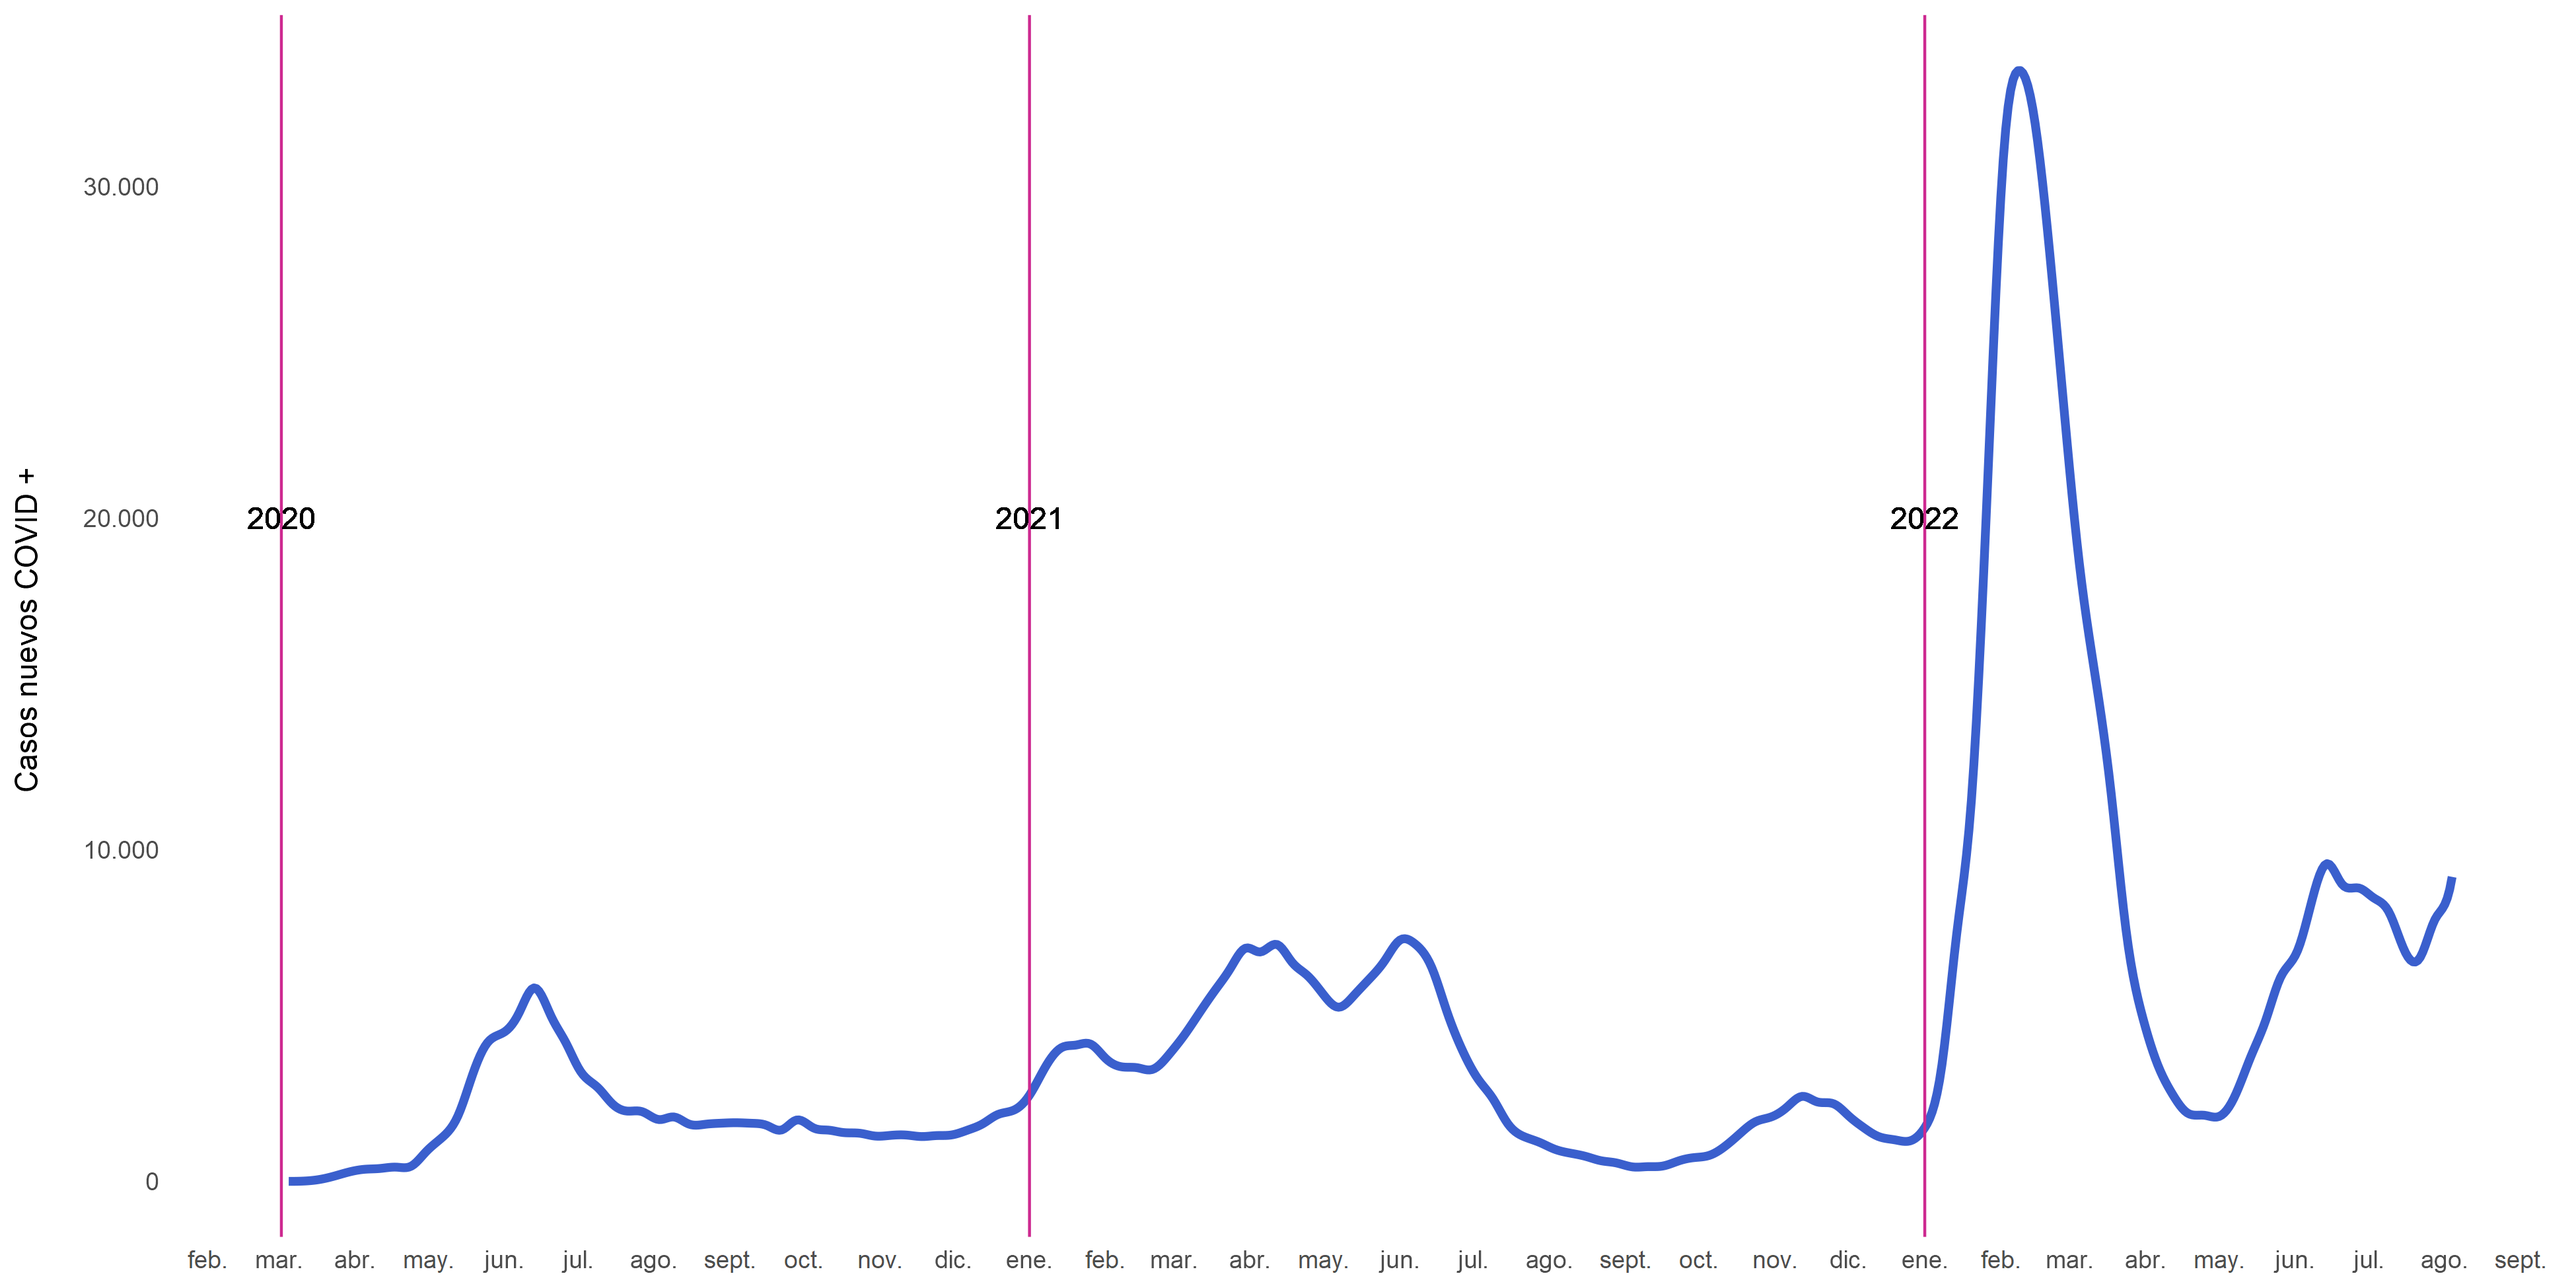
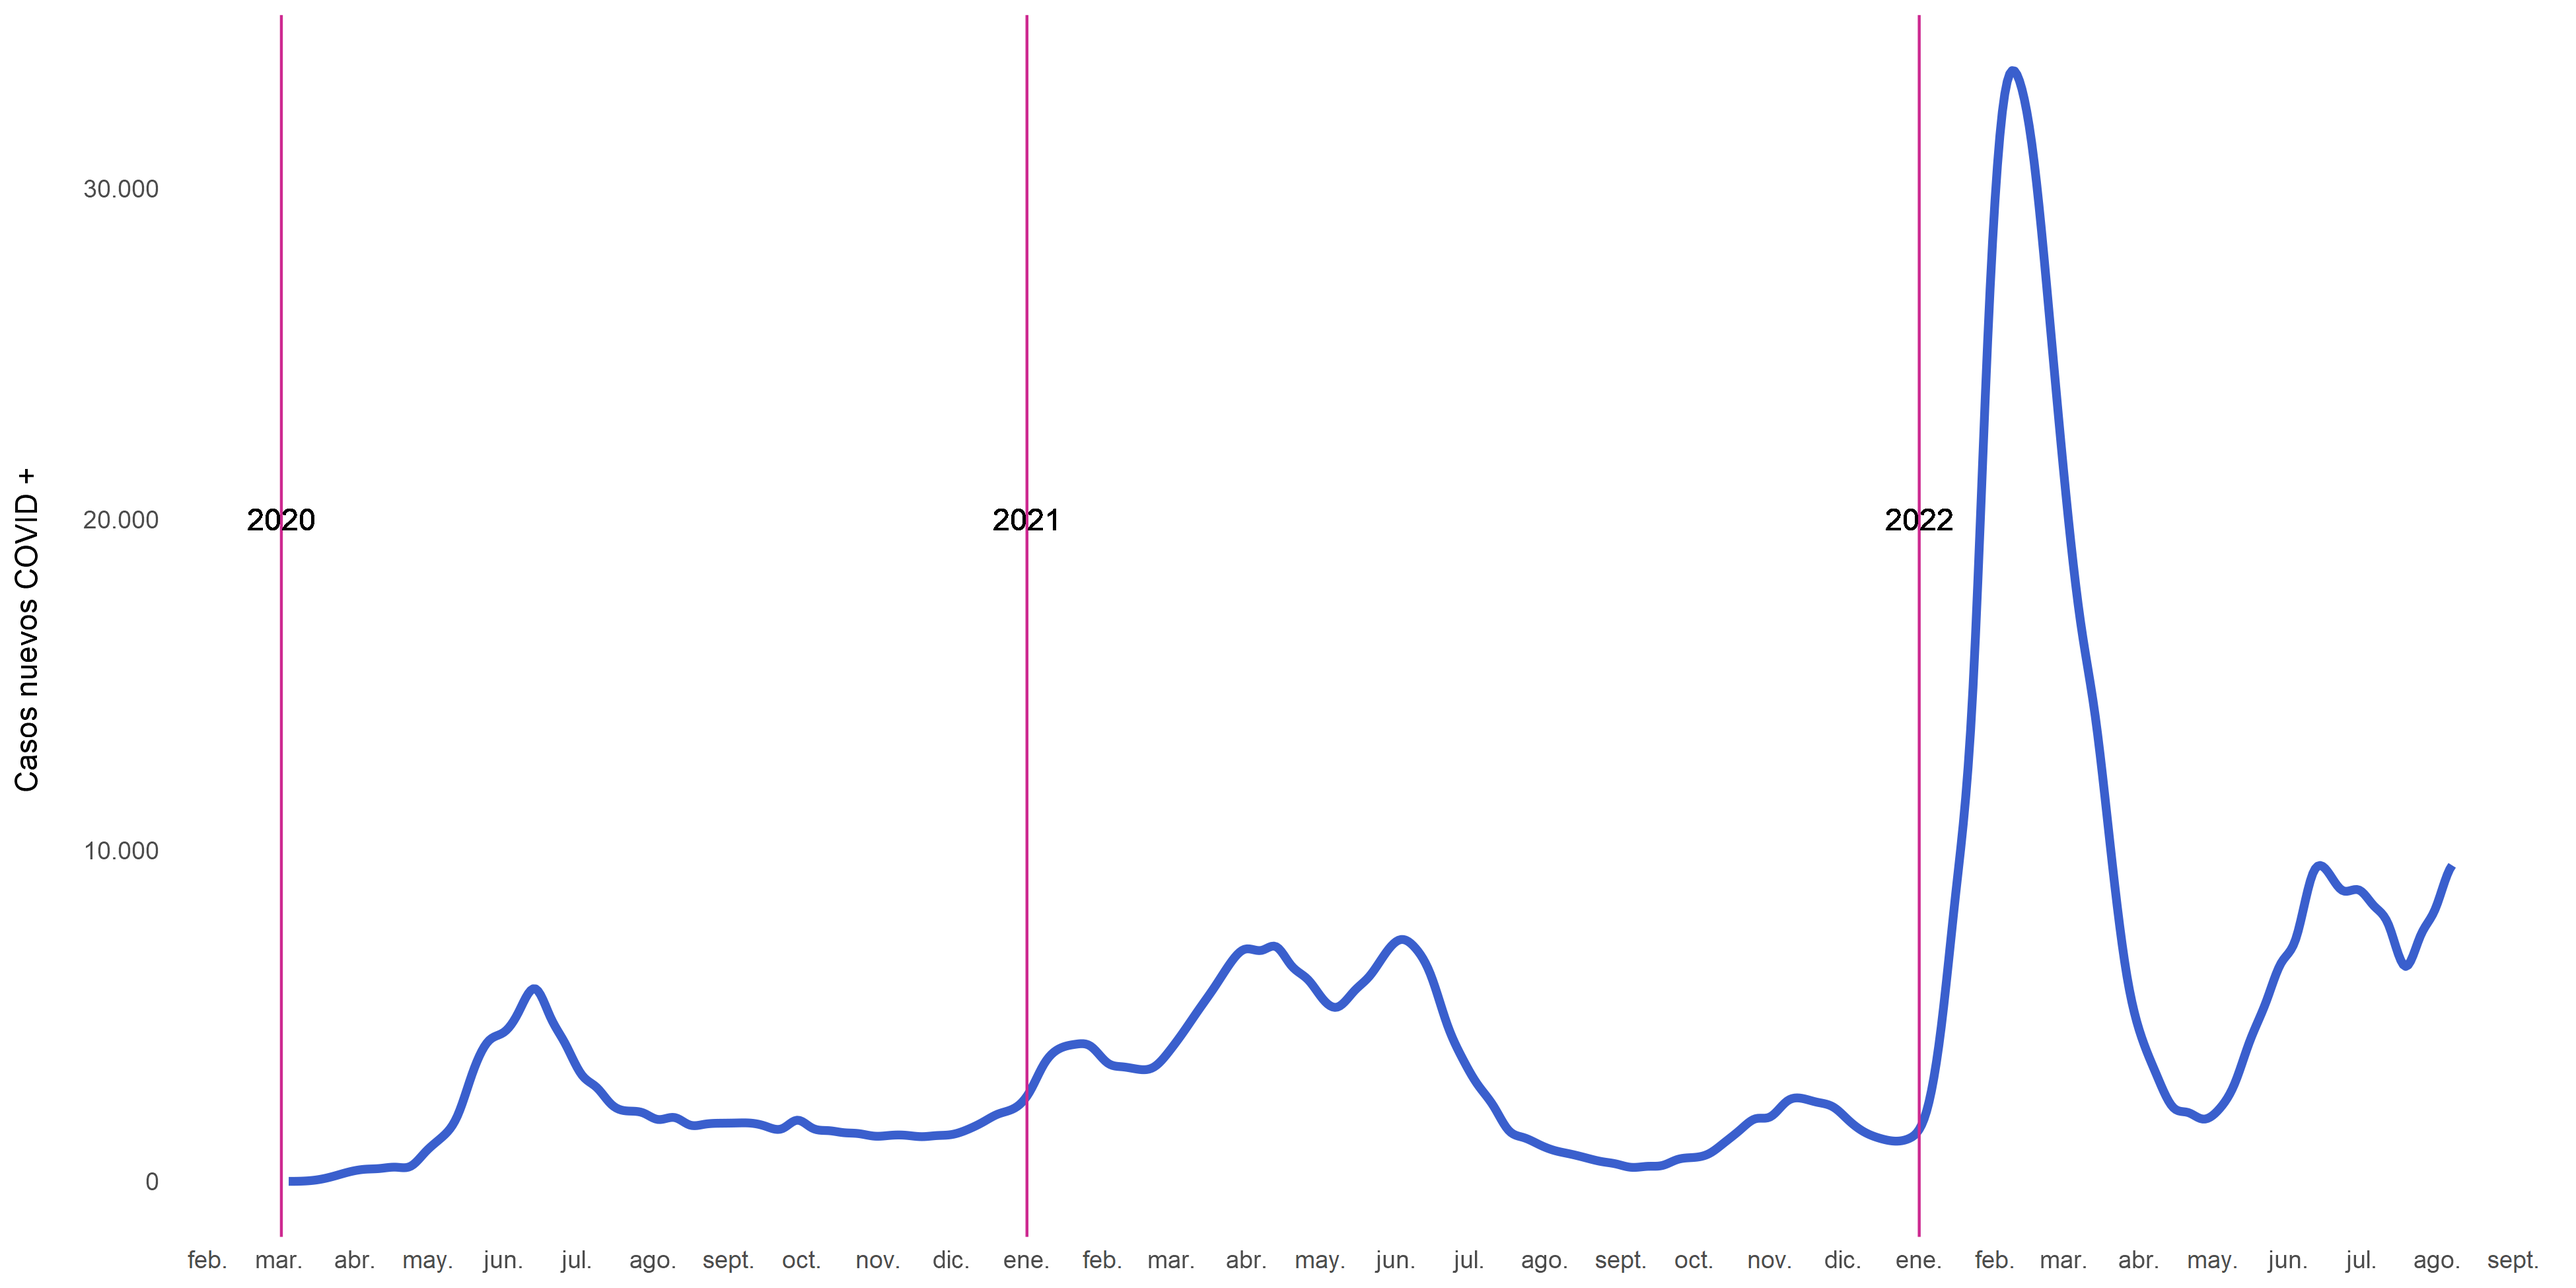
F5 11_08

diff --git a/README.md b/README.md
@@ -1,6 +1,6 @@
 # covid_scl
 
-COVID's situation in Chile. **Last update: 08-08-2022**
+COVID's situation in Chile. **Last update: 11-08-2022**
 
 ## COVID stripes
 
